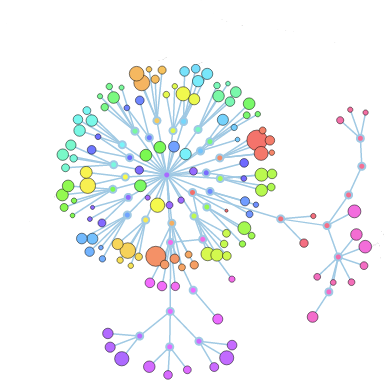
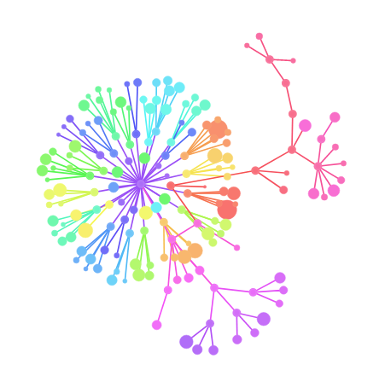
Get fancier colors

diff --git a/javascripts/CodeFlower.js b/javascripts/CodeFlower.js
@@ -9,8 +9,6 @@ var CodeFlower = function(selector, w, h) {
     .attr('height', h);
 
   this.svg.append("svg:rect")
-    .style("stroke", "#999")
-    .style("fill", "#fff")
     .attr('width', w)
     .attr('height', h);
 
@@ -52,7 +50,10 @@ CodeFlower.prototype.update = function(json) {
     .attr("x1", function(d) { return d.source.x; })
     .attr("y1", function(d) { return d.source.y; })
     .attr("x2", function(d) { return d.target.x; })
-    .attr("y2", function(d) { return d.target.y; });
+    .attr("y2", function(d) { return d.target.y; })
+    .style("stroke", function color(d) {
+      return "hsl(" + parseInt(360 / total * d.source.id, 10) + ",90%,64%)";
+    });
 
   // Exit any old links.
   this.link.exit().remove();
@@ -70,6 +71,9 @@ CodeFlower.prototype.update = function(json) {
     .attr("class", "node")
     .classed('directory', function(d) { return (d._children || d.children) ? 1 : 0; })
     .attr("r", function(d) { return d.children ? 3.5 : Math.pow(d.size, 2/5) || 1; })
+    .style("stroke", function color(d) {
+      return "hsl(" + parseInt(360 / total * d.id, 10) + ",90%,72%)";
+    })
     .style("fill", function color(d) {
       return "hsl(" + parseInt(360 / total * d.id, 10) + ",90%,70%)";
     })

diff --git a/stylesheets/style.css b/stylesheets/style.css
@@ -6,6 +6,15 @@ body {
   overflow: auto;
 }
 
+#visualization,
+#visualization svg {
+  background: transparent;
+}
+
+#visualization svg rect {
+  fill: rgba(255, 255, 255, 1);
+}
+
 h1 {
   font-size: 62px;
   font-weight: 300;
